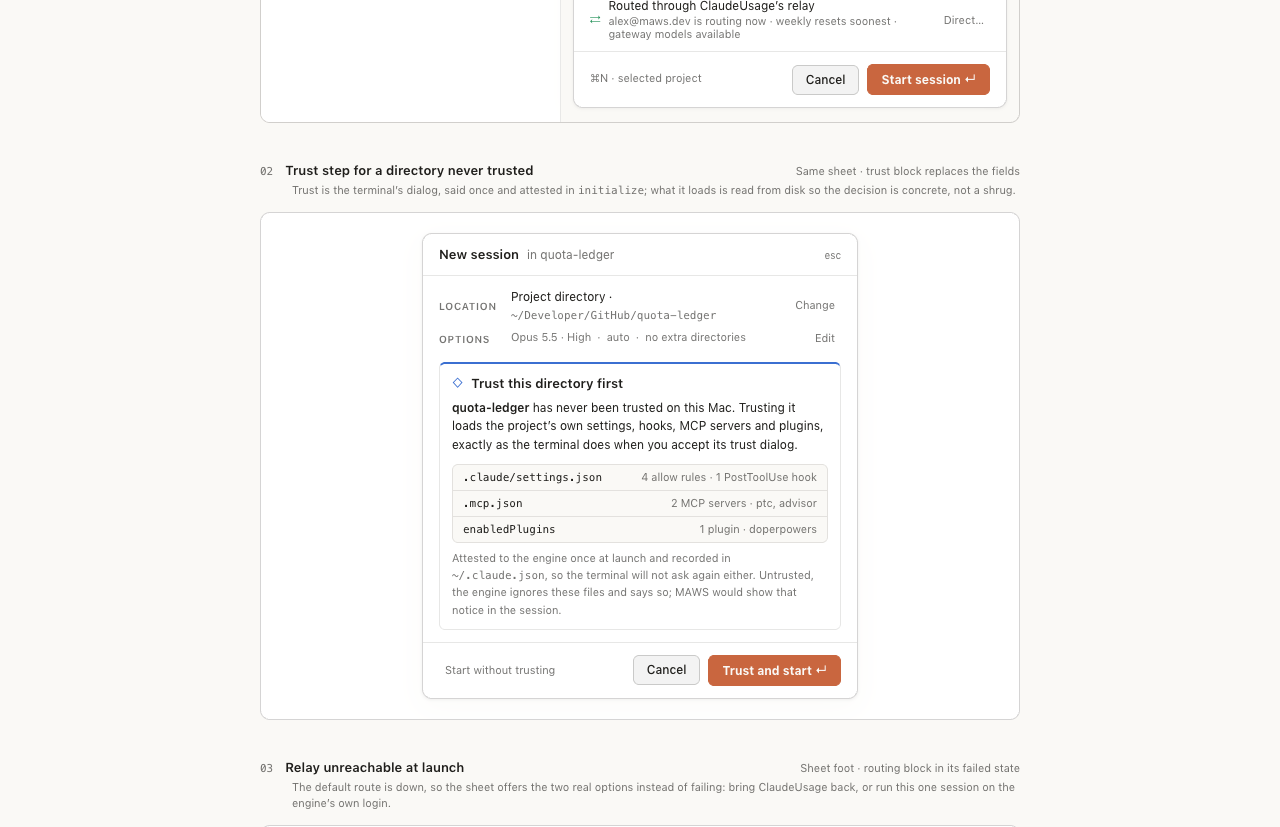
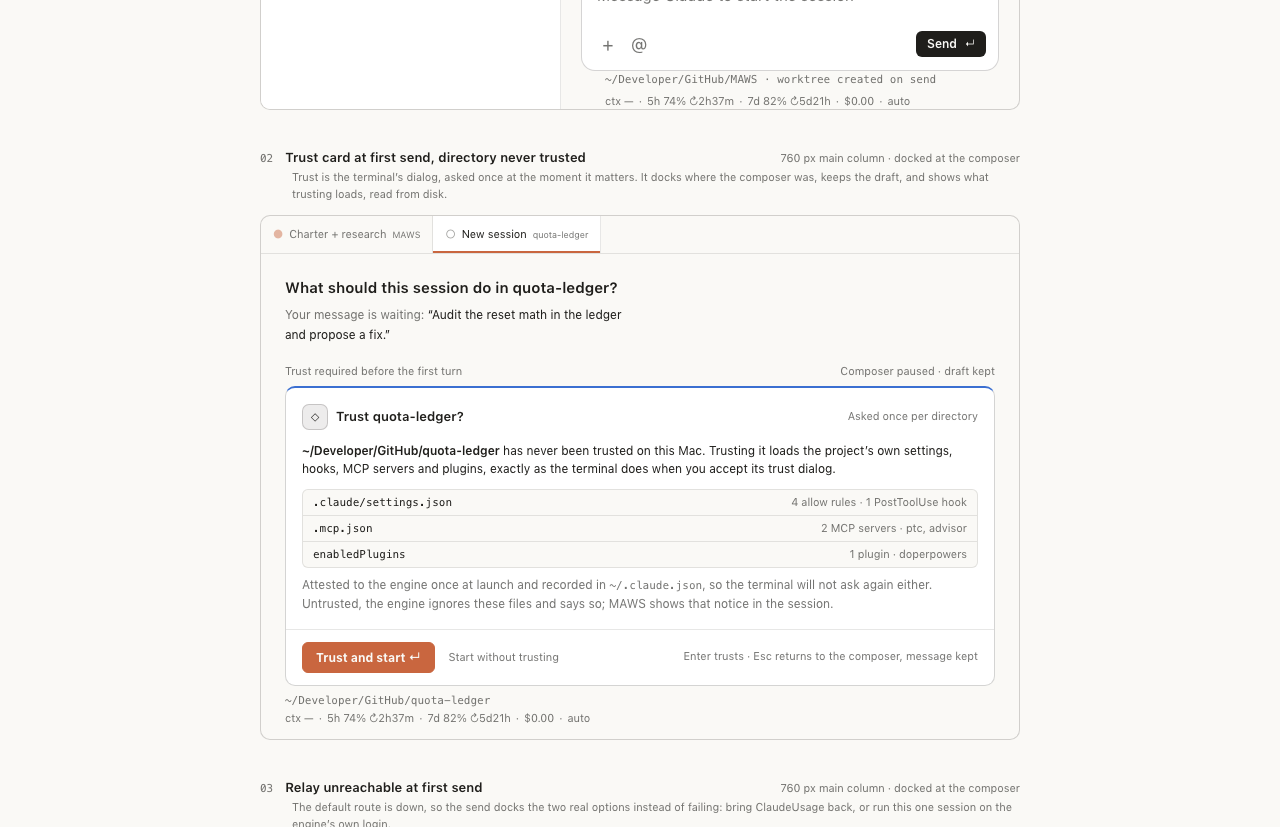
Mockup 05: new session is a tab, not a sheet; trust and relay-down states dock at the composer

diff --git a/mockups/05-sessions.html b/mockups/05-sessions.html
@@ -91,63 +91,73 @@ figcaption .dimension { margin-left: auto; color: var(--fg-muted); font-size: 11
 .provenance { font: 9px var(--font-mono); color: var(--fg-faint); letter-spacing: .04em; flex-shrink: 0; }
 .session:hover .provenance { color: var(--fg-muted); }
 .unread { width: 5px; height: 5px; border-radius: 50%; background: var(--info); display: block; margin: 7px 0 0 auto; }
-/* Sheet: macOS sheet over the main area. */
-.sheet-frame { position: relative; display: flex; min-height: 640px; }
-.main-area { flex: 1; min-width: 0; padding: 14px 12px; }
-.sheet { width: 100%; max-width: 436px; margin: 0 auto; background: var(--bg-overlay); border: 1px solid var(--border-strong); border-radius: var(--radius); box-shadow: var(--shadow); }
-.sheet-head { display: flex; align-items: baseline; gap: 8px; padding: 13px 16px; border-bottom: 1px solid var(--border); }
-.sheet-head .where { color: var(--fg-muted); font-size: 12px; }
-.sheet-head kbd { margin-left: auto; font: 10px var(--font-ui); color: var(--fg-muted); }
-.sheet-body { padding: 12px 16px 6px; }
-.sheet-foot { display: flex; align-items: center; gap: 8px; padding: 12px 16px; border-top: 1px solid var(--border); }
-.sheet-foot .spacer { flex: 1; }
+/* Unstarted session tab: the pane is the setup surface and the strip carries it. */
+.tab-frame { display: flex; min-height: 640px; }
+.pane-main { flex: 1; min-width: 0; display: flex; flex-direction: column; }
+.pane-body { flex: 1; display: flex; flex-direction: column; justify-content: center; padding: 20px 24px; }
+.empty-state h3 { font-size: 15px; font-weight: 550; line-height: 1.4; }
+.empty-state p { margin-top: 7px; font-size: 12px; color: var(--fg-muted); line-height: 1.6; max-width: 46ch; }
+.route-line { display: flex; align-items: center; gap: 8px; margin-top: 14px; font-size: 11px; color: var(--fg-muted); }
+.route-line .glyph { color: var(--success); }
+.route-line .text-action { padding: 2px 5px; }
+.draft-line { margin-top: 10px; font-size: 12px; color: var(--fg-muted); line-height: 1.55; }
+.draft-line q { color: var(--fg); }
+.composer-zone { padding: 0 20px; }
+.location-pop { width: 396px; margin-bottom: 12px; position: relative; }
+.location-pop::after { content: ''; position: absolute; left: 60px; bottom: -5px; width: 8px; height: 8px; background: var(--bg-overlay); border-right: 1px solid var(--border-strong); border-bottom: 1px solid var(--border-strong); transform: rotate(45deg); }
+.location-pop .pop-body { padding: 8px 12px 6px; }
+.location-pop .pop-foot { padding: 8px 12px; border-top: 1px solid var(--border); font-size: 11px; color: var(--fg-muted); }
 .group-label { display: block; margin: 6px 0 5px; }
-.choice { display: grid; grid-template-columns: 14px 1fr; gap: 9px; padding: 7px 8px; border-radius: 5px; cursor: pointer; align-items: start; margin: 0 -8px; }
+.choice { display: grid; grid-template-columns: 14px 1fr; gap: 9px; padding: 7px 8px; border-radius: 5px; cursor: pointer; align-items: start; margin: 0 -4px; }
 .choice:has(input:checked) { background: var(--accent-soft); }
 .choice input { margin-top: 2px; }
 .choice .name { font-size: 12px; display: flex; gap: 8px; align-items: baseline; }
 .choice .name .path { margin-left: auto; }
 .choice .sub { display: block; font-size: 11px; color: var(--fg-muted); margin-top: 3px; line-height: 1.5; }
-.choice .nested { display: grid; grid-template-columns: 56px 1fr auto; align-items: center; gap: 8px; margin-top: 8px; font-size: 11px; color: var(--fg-muted); }
+.choice .nested { display: grid; grid-template-columns: 48px 1fr auto; align-items: center; gap: 8px; margin-top: 8px; font-size: 11px; color: var(--fg-muted); }
 .input { height: 28px; padding: 0 8px; border: 1px solid var(--border-strong); border-radius: 6px; background: var(--bg); color: var(--fg); font-size: 12px; width: 100%; }
 .input.mono { font: 12px var(--font-mono); }
 .input:focus { outline: 2px solid var(--accent); outline-offset: 1px; }
 .chip { display: inline-flex; align-items: center; gap: 5px; border: 1px solid var(--border-strong); padding: 4px 8px; border-radius: 6px; font-size: 11px; color: var(--fg); background: var(--bg); white-space: nowrap; }
 .chip.muted { color: var(--fg-muted); border-color: var(--border); }
-.chip .x { color: var(--fg-muted); }
 .field { display: grid; grid-template-columns: 84px 1fr; align-items: center; gap: 10px; min-height: 34px; font-size: 12px; }
 .field .k { font-size: 11px; color: var(--fg-muted); }
 .field .v { display: flex; align-items: center; gap: 8px; flex-wrap: wrap; }
-.seg { display: flex; border: 1px solid var(--border-strong); border-radius: 6px; background: var(--bg); padding: 3px; }
-.seg label { flex: 1; text-align: center; padding: 4px 6px; font-size: 11px; border-radius: 4px; cursor: pointer; white-space: nowrap; }
-.seg input { position: absolute; opacity: 0; }
-.seg label:has(input:checked) { background: var(--bg-active); color: var(--fg); box-shadow: inset 0 0 0 1px var(--border-strong); }
-.seg label:has(input:focus-visible) { outline: 2px solid var(--accent); }
-.seg.compact label { padding: 3px 4px; }
-.stack { margin-top: 4px; }
-.stack .k { display: block; font-size: 11px; color: var(--fg-muted); margin: 8px 0 6px; }
-textarea.input { height: 54px; padding: 6px 8px; resize: none; line-height: 1.5; }
-.route { display: flex; align-items: center; gap: 8px; font-size: 12px; margin-top: 10px; padding: 9px 0 4px; border-top: 1px solid var(--border); }
-.route .glyph { color: var(--success); }
-.route .text-action { margin-left: auto; }
-.route .sub { display: block; font-size: 11px; color: var(--fg-muted); margin-top: 2px; }
-.summary-row { display: grid; grid-template-columns: 62px minmax(0, 1fr) auto; align-items: center; gap: 10px; font-size: 12px; min-height: 30px; }
-.summary-row .val { min-width: 0; line-height: 1.5; }
-.summary-row .val .path { color: var(--fg-muted); }
-.block { border: 1px solid var(--border); border-radius: var(--radius-sm); padding: 12px 12px 10px; margin: 8px 0 6px; }
-.block.trust { border-top: 2px solid var(--info); }
-.block.relay { border-top: 2px solid var(--warning); }
-.block h3 { display: flex; align-items: center; gap: 8px; }
-.block .endpoint { display: block; font-size: 11px; color: var(--fg-muted); margin: 4px 0 0 22px; font-family: var(--font-mono); }
-.block p { font-size: 12px; line-height: 1.55; margin-top: 7px; }
-.block p.hint { font-size: 11px; }
-.loads { margin: 10px 0 4px; border: 1px solid var(--border); border-radius: 6px; background: var(--bg); }
+.context-strip { display: flex; flex-wrap: wrap; gap: 5px; margin-bottom: 8px; }
+.context-chip { display: inline-flex; gap: 4px; align-items: center; border: 1px solid var(--border); padding: 4px 7px; border-radius: var(--radius-sm); font-size: 10px; color: var(--fg-muted); white-space: nowrap; }
+.context-chip:first-child { color: var(--fg); }
+.context-chip.open { color: var(--fg); border-color: var(--border-strong); background: var(--bg-active); }
+.context-chip .x { color: var(--fg-muted); }
+.strip-hint { font-size: 11px; color: var(--fg-muted); margin: -2px 0 8px; line-height: 1.5; }
+.composer { background: var(--bg-raised); border: 1px solid var(--border-strong); border-radius: var(--radius-lg); padding: 12px; }
+.composer textarea { display: block; resize: none; width: 100%; height: 46px; border: 0; outline: none; background: transparent; font-size: 15px; line-height: 1.6; padding: 0 3px; color: var(--fg); }
+.composer textarea::placeholder { color: var(--fg-muted); }
+.composer-controls { display: flex; align-items: center; gap: 3px; }
+.composer-controls .icon { width: 28px; height: 28px; font-size: 18px; }
+.send-btn { margin-left: auto; background: var(--fg); color: var(--bg); padding: 6px 11px; font-weight: 550; font-size: 12px; display: flex; align-items: center; gap: 8px; }
+.send-btn:hover { background: var(--fg-muted); }
+.send-btn kbd { color: inherit; font: 10px var(--font-ui); }
+.pane-status { flex-wrap: wrap; white-space: normal; padding: 8px 0 10px; min-height: 0; row-gap: 3px; }
+.pane-status .path { flex-basis: 100%; margin: 0; }
+/* Docked cards at the composer locus, 04's anatomy. */
+.main-crop { padding-bottom: 4px; }
+.crop-empty { padding: 24px 24px 6px; }
+.docked { margin: 0 24px; border: 1px solid var(--border-strong); border-top: 2px solid var(--info); border-radius: var(--radius); background: var(--bg-raised); }
+.docked.warn-tone { border-top-color: var(--warning); }
+.docked .content { padding: 16px; }
+.docked .header { display: flex; align-items: center; gap: 8px; margin-bottom: 12px; }
+.docked .header .who { width: 26px; height: 26px; display: inline-grid; place-items: center; background: var(--bg-active); border: 1px solid var(--border-strong); border-radius: 7px; font-size: 15px; flex-shrink: 0; }
+.docked .header .pending { margin-left: auto; font-size: 11px; color: var(--fg-muted); white-space: nowrap; }
+.docked p { font-size: 12px; line-height: 1.55; }
+.docked p + p { margin-top: 8px; }
+.docked .endpoint { display: block; font: 11px var(--font-mono); color: var(--fg-muted); margin: -6px 0 10px 34px; }
+.docked .footer { display: flex; align-items: center; gap: 8px; padding: 12px 16px; border-top: 1px solid var(--border); }
+.docked .footer .hint { margin-left: auto; text-align: right; }
+.loads { margin: 10px 0 8px; border: 1px solid var(--border); border-radius: 6px; background: var(--bg); }
 .loads .row { padding: 6px 10px; font-size: 11px; }
 .loads .row + .row { border-top: 1px solid var(--border); }
 .loads code { color: var(--fg); }
 .loads .row span:last-child { margin-left: auto; color: var(--fg-muted); white-space: nowrap; }
-.sheet-crop { padding: 20px; background: var(--bg-raised); }
-.sheet-crop .sheet { margin: 0 auto; }
 /* Context menu and popovers for fork and rename. */
 .menu-frame { position: relative; display: flex; min-height: 372px; }
 .menu { position: absolute; width: 226px; background: var(--bg-overlay); border: 1px solid var(--border-strong); border-radius: 8px; padding: 4px; box-shadow: var(--shadow); font-size: 12px; z-index: 2; }
@@ -250,7 +260,7 @@ textarea.input { height: 54px; padding: 6px 8px; resize: none; line-height: 1.5;
 @media (max-width: 700px) {
  body { padding: 24px 14px 40px; }
  .dimension { display: none; }
- .sheet-frame, .menu-frame { display: block; }
+ .tab-frame, .menu-frame { display: block; }
  .sidebar { width: 100%; min-width: 0; border-right: 0; border-bottom: 1px solid var(--border); }
  .menu, .menu.sub { position: static; width: auto; margin: 10px 12px; }
  .pair, .cleanup, .confirm-pair { grid-template-columns: 1fr; padding: 12px; }
@@ -269,20 +279,21 @@ textarea.input { height: 54px; padding: 6px 8px; resize: none; line-height: 1.5;
 <header class="page-head">
  <div class="eyebrow">MAWS / Interaction studies / 05</div>
  <h1>Sessions: start, branch, hand off, clean up.</h1>
- <p>One sheet to start. Trust said once. Worktrees that clean up without surprises. A session someone else is holding stays readable.</p>
+ <p>A tab to start, set up from the strip. Trust said once, at the first send. Worktrees that clean up without surprises. A session someone else is holding stays readable.</p>
 </header>
 
 <figure class="vignette" id="new-session">
- <figcaption><span class="number">01</span><h2>New-session sheet from a project’s “+”</h2><span class="dimension">300 px sidebar · 436 px sheet</span></figcaption>
- <p class="rationale">Location first, because it decides the worktree. The routing line says which account is paying before the first turn; Direct is one quiet control away, not a mode.</p>
- <div class="frame sheet-frame">
+ <figcaption><span class="number">01</span><h2>Unstarted session tab from a project’s “+”</h2><span class="dimension">300 px sidebar · 458 px pane · location chip open</span></figcaption>
+ <p class="rationale">“+” opens a tab, not a sheet. The empty pane names the project, the strip above the editor carries the setup, and the first send starts the engine.</p>
+ <div class="frame tab-frame">
   <aside class="sidebar" aria-label="Session sidebar">
    <label class="search"><svg viewBox="0 0 20 20" fill="none" stroke="currentColor" stroke-width="1.5" aria-hidden="true"><use href="#search"/></svg><input type="search" aria-label="Search sessions" placeholder="Search sessions"><kbd>⌘ K</kbd></label>
    <div class="section-heading attention label">Needs you · 3</div>
    <div class="section-heading label" style="margin-top:10px">Pinned · 2</div>
    <div class="section-heading label" style="margin-top:10px">Projects <span class="icon" aria-hidden="true">+</span></div>
-   <div class="project-head"><svg><use href="#down"/></svg><svg><use href="#folder"/></svg><span class="name">MAWS</span><span class="icon pressed" aria-label="New session in MAWS (open)">+</span></div>
+   <div class="project-head"><svg><use href="#down"/></svg><svg><use href="#folder"/></svg><span class="name">MAWS</span><span class="icon pressed" aria-label="New session in MAWS (opened)">+</span></div>
    <div class="project-sessions">
+    <div class="session selected" aria-current="page"><span class="session-glyph g-idle" aria-label="Not started">○</span><span><span class="session-title"><span class="truncate">New session</span></span><span class="session-sub">Not started · set up in the tab</span></span><span class="session-age">now</span></div>
     <div class="session"><span class="session-glyph g-working" aria-label="Working">●</span><span><span class="session-title"><span class="truncate">Charter + research</span><span class="provenance" title="Title generated by the engine">auto</span></span><span class="session-sub">Running bun test</span></span><span class="session-age">now</span></div>
     <div class="session"><span class="session-glyph g-needs" aria-label="Needs approval">◐</span><span><span class="session-title"><span class="truncate">Fix sidebar drag</span><span class="provenance" title="Title generated by the engine">auto</span></span><span class="session-sub">Waiting to push feat/sidebar-drag</span></span><span class="session-age">8m<span class="unread" aria-label="Unread"></span></span></div>
     <div class="session"><span class="session-glyph g-question" aria-label="Question">?</span><span><span class="session-title"><span class="truncate">Sidebar interaction pass</span></span><span class="session-sub">Which sidebar layout?</span></span><span class="session-age">4m</span></div>
@@ -291,72 +302,76 @@ textarea.input { height: 54px; padding: 6px 8px; resize: none; line-height: 1.5;
    <div class="project-head"><svg class="collapsed"><use href="#down"/></svg><svg><use href="#folder"/></svg><span class="name">claude-usage-menubar</span><span class="rollup">⧉1</span></div>
    <div class="project-head"><svg class="collapsed"><use href="#down"/></svg><svg><use href="#folder"/></svg><span class="name">claude-code-bundle</span></div>
   </aside>
-  <div class="main-area">
-   <section class="sheet" aria-label="New session sheet">
-    <div class="sheet-head"><h3>New session</h3><span class="where">in MAWS</span><kbd>esc</kbd></div>
-    <div class="sheet-body">
-     <span class="label group-label">Location</span>
-     <label class="choice"><input type="radio" name="location"><span><span class="name">Project directory <span class="path">~/Developer/GitHub/MAWS</span></span><span class="sub">⎇ main · clean</span></span></label>
-     <label class="choice"><input type="radio" name="location" checked><span><span class="name">New worktree <span class="path">.claude/worktrees/‹branch›</span></span><span class="sub">Same convention the engine’s own EnterWorktree uses, so both coexist.</span><span class="nested"><span>Branch</span><input class="input mono" value="feat/session-sheet" aria-label="Branch name"><span class="chip muted">from main ⌄</span></span></span></label>
-     <label class="choice"><input type="radio" name="location"><span><span class="name">Existing worktree <span class="path">2 available</span></span><span class="sub">charter · live in “Charter + research” &nbsp;·&nbsp; feat-usage-strip · idle</span></span></label>
-     <div class="divider" style="margin:10px 0 4px"></div>
-     <div class="field"><span class="k">Model</span><span class="v"><button class="chip" title="Opens the model and effort widget">Opus 5.5 ⌄</button><span class="seg compact" role="radiogroup" aria-label="Effort"><label><input type="radio" name="effort">Low</label><label><input type="radio" name="effort">Medium</label><label><input type="radio" name="effort" checked>High</label><label><input type="radio" name="effort">Max</label></span></span></div>
-     <div class="stack"><span class="k">Permission mode</span>
-      <div class="seg" role="radiogroup" aria-label="Permission mode"><label><input type="radio" name="mode">default</label><label><input type="radio" name="mode">acceptEdits</label><label><input type="radio" name="mode">plan</label><label><input type="radio" name="mode" checked>auto</label><label><input type="radio" name="mode">bypass</label></div>
-      <p class="hint" style="margin-top:6px">Auto: the classifier reviews tool calls; escalations, questions and plan reviews come to you. Inherited from your settings.</p>
-     </div>
-     <div class="field" style="margin-top:6px"><span class="k">Also read</span><span class="v"><span class="chip">claude-code-bundle <span class="x" aria-hidden="true">×</span></span><button class="chip muted">+ Add directory</button></span></div>
-     <div class="stack"><span class="k">First message <span style="font-weight:400">· optional</span></span><textarea class="input" aria-label="First message" placeholder="Sent as the first turn. Leave empty to open the session idle."></textarea></div>
-     <div class="route"><span class="glyph" aria-hidden="true">⇄</span><span>Routed through ClaudeUsage’s relay<span class="sub">alex@maws.dev is routing now · weekly resets soonest · gateway models available</span></span><button class="text-action" title="Run this session with the engine’s own login instead">Direct…</button></div>
+  <div class="pane-main">
+   <nav class="tabs" aria-label="Open tabs"><button class="tab"><span class="g-working">●</span>Charter + research <small>MAWS</small></button><button class="tab active" aria-current="page"><span class="g-idle">○</span>New session <small>MAWS</small></button></nav>
+   <div class="pane-body">
+    <div class="empty-state">
+     <h3>What should this session do in MAWS?</h3>
+     <p>Where it runs and how it may act are in the strip below. The engine starts with your first message.</p>
+     <div class="route-line"><span class="glyph" aria-hidden="true">⇄</span><span>Routed through ClaudeUsage’s relay · routing alex@maws.dev</span><button class="text-action" title="Run this session with the engine’s own login instead">Direct…</button></div>
     </div>
-    <div class="sheet-foot"><span class="hint">⌘N · selected project</span><span class="spacer"></span><button class="btn">Cancel</button><button class="btn primary">Start session ↵</button></div>
-   </section>
+   </div>
+   <div class="composer-zone">
+    <section class="popover location-pop" aria-label="Location">
+     <div class="pop-body">
+      <span class="label group-label">Location</span>
+      <label class="choice"><input type="radio" name="location"><span><span class="name">Project directory <span class="path">~/Developer/GitHub/MAWS</span></span><span class="sub">⎇ main · clean</span></span></label>
+      <label class="choice"><input type="radio" name="location" checked><span><span class="name">New worktree <span class="path">.claude/worktrees/feat-session-tab</span></span><span class="sub">Created on the first send.</span><span class="nested"><span>Branch</span><input class="input mono" value="feat/session-tab" aria-label="Branch name"><span class="chip muted">from main ⌄</span></span></span></label>
+      <label class="choice"><input type="radio" name="location"><span><span class="name">Existing worktree <span class="path">2 available</span></span><span class="sub">charter · live in “Charter + research” &nbsp;·&nbsp; feat-usage-strip · idle</span></span></label>
+     </div>
+     <div class="pop-foot">Same convention as the engine’s own EnterWorktree, so both coexist.</div>
+    </section>
+    <div class="context-strip" aria-label="Session setup"><button class="context-chip">MAWS</button><button class="context-chip open" aria-expanded="true">New worktree · feat/session-tab ⌄</button><button class="context-chip">⎇ from main</button><button class="context-chip" title="Opens the model and effort widget">Opus 5.5 · High ⌄</button><button class="context-chip">auto ⌄</button><button class="context-chip">claude-code-bundle <span class="x" aria-hidden="true">×</span></button><button class="context-chip">+ dir</button></div>
+    <p class="strip-hint">auto · the classifier reviews tool calls; escalations, questions and plan reviews come to you · inherited from your settings</p>
+    <div class="composer"><textarea aria-label="First message" placeholder="Message Claude to start the session"></textarea><div class="composer-controls"><button class="icon" aria-label="Add attachments or commands">+</button><button class="icon" aria-label="Mention context">@</button><button class="send-btn" title="Starts the engine with this message">Send <kbd>↵</kbd></button></div></div>
+    <div class="statusline pane-status" aria-label="Session status"><span class="path">~/Developer/GitHub/MAWS · worktree created on send</span><span>ctx —</span><span>·</span><span>5h 74% ↻2h37m</span><span>·</span><span>7d 82% ↻5d21h</span><span>·</span><span>$0.00</span><span>·</span><span>auto</span></div>
+   </div>
   </div>
  </div>
 </figure>
 
 <figure class="vignette" id="trust">
- <figcaption><span class="number">02</span><h2>Trust step for a directory never trusted</h2><span class="dimension">Same sheet · trust block replaces the fields</span></figcaption>
- <p class="rationale">Trust is the terminal’s dialog, said once and attested in <code>initialize</code>; what it loads is read from disk so the decision is concrete, not a shrug.</p>
- <div class="frame sheet-crop">
-  <section class="sheet" aria-label="New session sheet with trust step">
-   <div class="sheet-head"><h3>New session</h3><span class="where">in quota-ledger</span><kbd>esc</kbd></div>
-   <div class="sheet-body">
-    <div class="summary-row"><span class="label">Location</span><span class="val">Project directory · <span class="path">~/Developer/GitHub/quota-ledger</span></span><button class="text-action">Change</button></div>
-    <div class="summary-row"><span class="label">Options</span><span class="val hint">Opus 5.5 · High &nbsp;·&nbsp; auto &nbsp;·&nbsp; no extra directories</span><button class="text-action">Edit</button></div>
-    <section class="block trust" aria-label="Trust this directory">
-     <h3><span class="info" aria-hidden="true">◇</span>Trust this directory first</h3>
-     <p><strong style="font-weight:550">quota-ledger</strong> has never been trusted on this Mac. Trusting it loads the project’s own settings, hooks, MCP servers and plugins, exactly as the terminal does when you accept its trust dialog.</p>
-     <div class="loads" aria-label="What trusting loads">
-      <div class="row"><code>.claude/settings.json</code><span>4 allow rules · 1 PostToolUse hook</span></div>
-      <div class="row"><code>.mcp.json</code><span>2 MCP servers · ptc, advisor</span></div>
-      <div class="row"><code>enabledPlugins</code><span>1 plugin · doperpowers</span></div>
-     </div>
-     <p class="hint">Attested to the engine once at launch and recorded in <code>~/.claude.json</code>, so the terminal will not ask again either. Untrusted, the engine ignores these files and says so; MAWS would show that notice in the session.</p>
-    </section>
+ <figcaption><span class="number">02</span><h2>Trust card at first send, directory never trusted</h2><span class="dimension">760 px main column · docked at the composer</span></figcaption>
+ <p class="rationale">Trust is the terminal’s dialog, asked once at the moment it matters. It docks where the composer was, keeps the draft, and shows what trusting loads, read from disk.</p>
+ <div class="frame main-crop">
+  <nav class="tabs" aria-label="Open tabs"><button class="tab"><span class="g-working">●</span>Charter + research <small>MAWS</small></button><button class="tab active" aria-current="page"><span class="g-idle">○</span>New session <small>quota-ledger</small></button></nav>
+  <div class="crop-empty"><div class="empty-state"><h3>What should this session do in quota-ledger?</h3><p class="draft-line">Your message is waiting: <q>Audit the reset math in the ledger and propose a fix.</q></p></div></div>
+  <div class="locus-label"><span>Trust required before the first turn</span><span>Composer paused · draft kept</span></div>
+  <section class="docked" aria-label="Trust request">
+   <div class="content">
+    <div class="header"><span class="who" aria-hidden="true">◇</span><h3>Trust quota-ledger?</h3><span class="pending">Asked once per directory</span></div>
+    <p><strong style="font-weight:550">~/Developer/GitHub/quota-ledger</strong> has never been trusted on this Mac. Trusting it loads the project’s own settings, hooks, MCP servers and plugins, exactly as the terminal does when you accept its trust dialog.</p>
+    <div class="loads" aria-label="What trusting loads">
+     <div class="row"><code>.claude/settings.json</code><span>4 allow rules · 1 PostToolUse hook</span></div>
+     <div class="row"><code>.mcp.json</code><span>2 MCP servers · ptc, advisor</span></div>
+     <div class="row"><code>enabledPlugins</code><span>1 plugin · doperpowers</span></div>
+    </div>
+    <p class="hint">Attested to the engine once at launch and recorded in <code>~/.claude.json</code>, so the terminal will not ask again either. Untrusted, the engine ignores these files and says so; MAWS shows that notice in the session.</p>
    </div>
-   <div class="sheet-foot"><button class="text-action" title="Start with project settings ignored; the engine’s notice appears as a session warning">Start without trusting</button><span class="spacer"></span><button class="btn">Cancel</button><button class="btn primary">Trust and start ↵</button></div>
+   <div class="footer"><button class="btn primary">Trust and start ↵</button><button class="text-action" title="Start with project settings ignored; the engine’s notice appears as a session warning">Start without trusting</button><span class="hint">Enter trusts · Esc returns to the composer, message kept</span></div>
   </section>
+  <div class="statusline pane-status" style="padding:8px 24px 10px" aria-label="Session status"><span class="path">~/Developer/GitHub/quota-ledger</span><span>ctx —</span><span>·</span><span>5h 74% ↻2h37m</span><span>·</span><span>7d 82% ↻5d21h</span><span>·</span><span>$0.00</span><span>·</span><span>auto</span></div>
  </div>
 </figure>
 
 <figure class="vignette" id="relay-down">
- <figcaption><span class="number">03</span><h2>Relay unreachable at launch</h2><span class="dimension">Sheet foot · routing block in its failed state</span></figcaption>
- <p class="rationale">The default route is down, so the sheet offers the two real options instead of failing: bring ClaudeUsage back, or run this one session on the engine’s own login.</p>
- <div class="frame sheet-crop">
-  <section class="sheet" aria-label="New session sheet, relay unreachable">
-   <div class="sheet-body" style="padding-top:14px">
-    <div class="summary-row"><span class="label">Location</span><span class="val">New worktree · <span class="path">.claude/worktrees/feat-session-sheet</span></span><button class="text-action">Change</button></div>
-    <section class="block relay" aria-label="Relay unreachable">
-     <h3><span class="warn" aria-hidden="true">△</span>ClaudeUsage’s relay is not answering</h3>
-     <span class="endpoint">127.0.0.1:8641/api/hello · timed out after 2s</span>
-     <p>New sessions route through it by default. Open ClaudeUsage to bring the relay back, or run this session direct with the engine’s own login.</p>
-     <label class="choice" style="margin-top:8px"><input type="radio" name="fallback" checked><span><span class="name">Open ClaudeUsage, then start</span><span class="sub">MAWS keeps checking; the session starts routed as soon as the relay answers.</span></span></label>
-     <label class="choice"><input type="radio" name="fallback"><span><span class="name">Run direct</span><span class="sub">Uses the engine’s own login (alex@maws.dev, last signed in 3d ago). Gateway models unavailable; usage windows come from the engine. Switching back later restarts the session.</span></span></label>
-    </section>
+ <figcaption><span class="number">03</span><h2>Relay unreachable at first send</h2><span class="dimension">760 px main column · docked at the composer</span></figcaption>
+ <p class="rationale">The default route is down, so the send docks the two real options instead of failing: bring ClaudeUsage back, or run this one session on the engine’s own login.</p>
+ <div class="frame main-crop">
+  <nav class="tabs" aria-label="Open tabs"><button class="tab"><span class="g-working">●</span>Charter + research <small>MAWS</small></button><button class="tab active" aria-current="page"><span class="g-idle">○</span>New session <small>MAWS</small></button></nav>
+  <div class="crop-empty"><div class="empty-state"><h3>What should this session do in MAWS?</h3><p class="draft-line">Your message is waiting: <q>Tighten the sidebar drop target and add a cross-pane test.</q></p></div></div>
+  <div class="locus-label"><span>Route unavailable</span><span>Composer paused · draft kept</span></div>
+  <section class="docked warn-tone" aria-label="Relay unreachable">
+   <div class="content">
+    <div class="header"><span class="who warn" aria-hidden="true">△</span><h3>ClaudeUsage’s relay is not answering</h3><span class="pending">Checked 4s ago</span></div>
+    <span class="endpoint">127.0.0.1:8641/api/hello · timed out after 2s</span>
+    <p>New sessions route through it by default. Open ClaudeUsage to bring the relay back, or run this session direct with the engine’s own login.</p>
+    <label class="choice" style="margin-top:10px"><input type="radio" name="fallback" checked><span><span class="name">Open ClaudeUsage, then start</span><span class="sub">MAWS keeps checking; the session starts routed as soon as the relay answers.</span></span></label>
+    <label class="choice"><input type="radio" name="fallback"><span><span class="name">Run direct</span><span class="sub">Uses the engine’s own login (alex@maws.dev, last signed in 3d ago). Gateway models unavailable; usage windows come from the engine. Switching back later restarts the session.</span></span></label>
    </div>
-   <div class="sheet-foot"><button class="text-action">Retry ↻ <span class="hint">checked 4s ago</span></button><span class="spacer"></span><button class="btn">Cancel</button><button class="btn primary">Open ClaudeUsage ↵</button></div>
+   <div class="footer"><button class="btn primary">Open ClaudeUsage ↵</button><button class="btn">Retry ↻</button><button class="btn">Cancel</button><span class="hint">Enter · Esc cancels, message kept</span></div>
   </section>
+  <div class="statusline pane-status" style="padding:8px 24px 10px" aria-label="Session status"><span class="path">~/Developer/GitHub/MAWS · worktree created on send</span><span>ctx —</span><span>·</span><span>5h —</span><span>·</span><span>7d —</span><span>·</span><span>$0.00</span><span>·</span><span>auto</span></div>
  </div>
 </figure>
 
